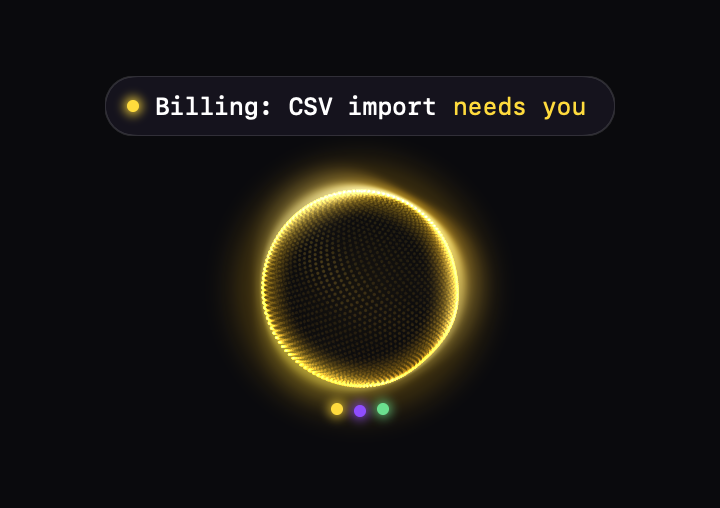
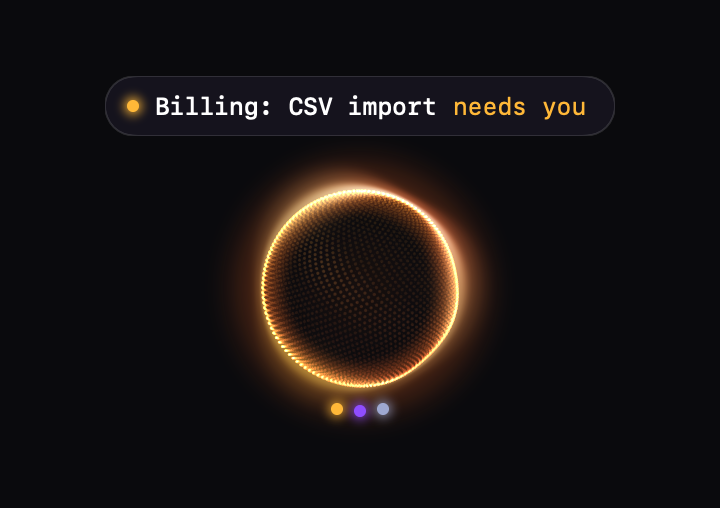
README images in the Claude palette; the dock in each state

diff --git a/README.md b/README.md
@@ -24,14 +24,14 @@ The orb floats wherever you put it, with a pip for each session under it and a t
 
 <p align="center"><img src="docs/images/orb.png" width="360" alt="The orb asking for attention, with three session pips and a toast"></p>
 
-Or dock it as an island at any edge of the screen. At rest it shows what's happening, it grows to tell you when
-something needs you, and hovering opens every session.
+Or dock it as an island at any edge of the screen. It shows what's happening at rest, grows to tell you when
+something needs you or fails, and celebrates when everything's done.
 
-<p align="center">
-  <img src="docs/images/island-rest.png" width="440" alt="The island at rest, showing what a session is doing"><br>
-  <img src="docs/images/island-needs.png" width="440" alt="The island asking for a permission"><br>
-  <img src="docs/images/island-open.png" width="440" alt="The island opened into the session list">
-</p>
+<p align="center"><img src="docs/images/dock-states.png" width="548" alt="The island in each state: working, needs you, error, done"></p>
+
+Hover it to open every session.
+
+<p align="center"><img src="docs/images/island-open.png" width="440" alt="The island opened into the session list"></p>
 
 ## Install
 
